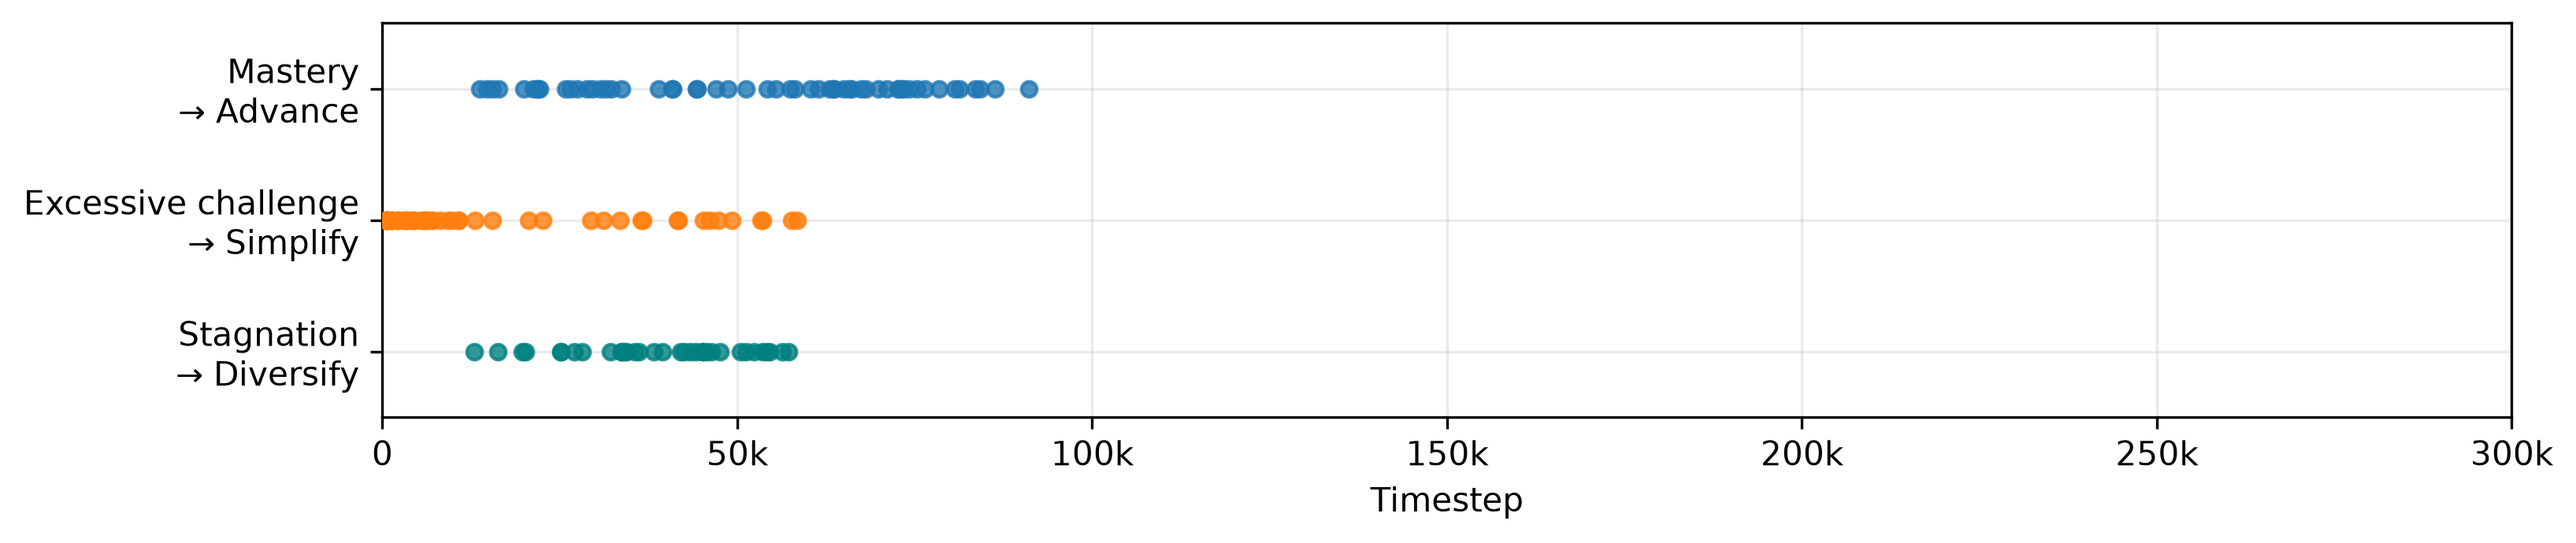
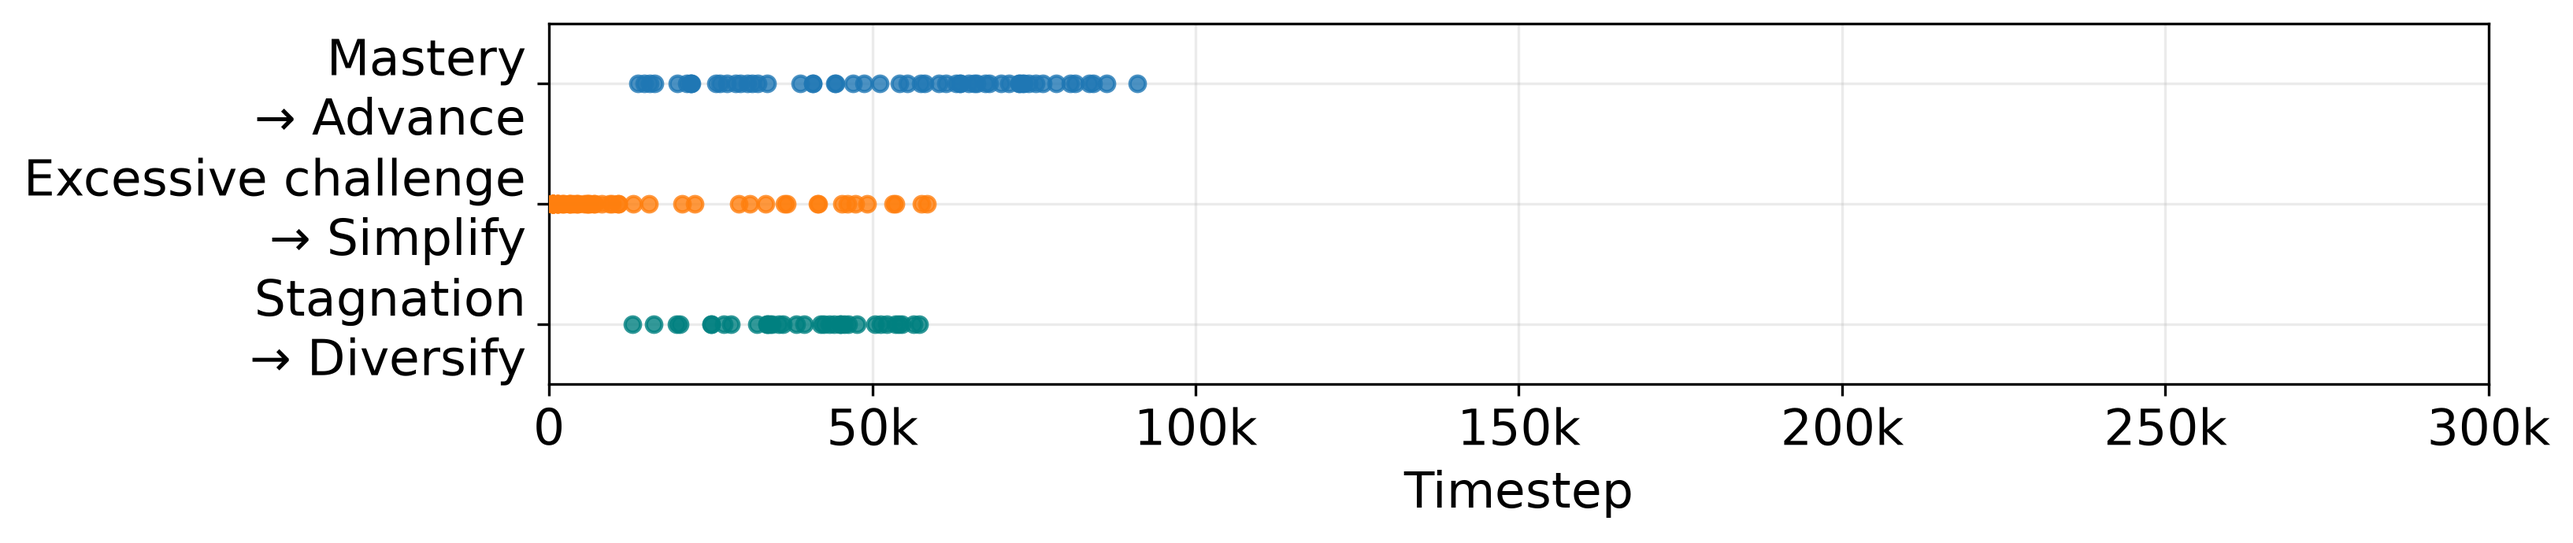
change font size

diff --git a/03-scripts/run_comparison.py b/03-scripts/run_comparison.py
@@ -275,12 +275,12 @@ def make_adaptation_plot(output_dir, total_steps):
         steps = [int(e["global_step"]) for e in events if e["condition"] == condition]
         axis.scatter(steps, [lane] * len(steps), s=22,
                      color=color, alpha=.8, zorder=3)
-    axis.set_yticks(range(len(patterns)), [p[1] for p in patterns], fontsize=10)
+    axis.set_yticks(range(len(patterns)), [p[1] for p in patterns], fontsize=15)
     axis.set_ylim(len(patterns) - .5, -.5)
     axis.set_xlim(0, total_steps)
     ticks = np.linspace(0, total_steps, 7)
-    axis.set_xticks(ticks, [f"{int(t / 1000)}k" if t else "0" for t in ticks])
-    axis.set_xlabel("Timestep")
+    axis.set_xticks(ticks, [f"{int(t / 1000)}k" if t else "0" for t in ticks], fontsize=15)
+    axis.set_xlabel("Timestep", fontsize=15)
     axis.set_axisbelow(True)
     axis.grid(True, alpha=.25)
     fig.tight_layout()
